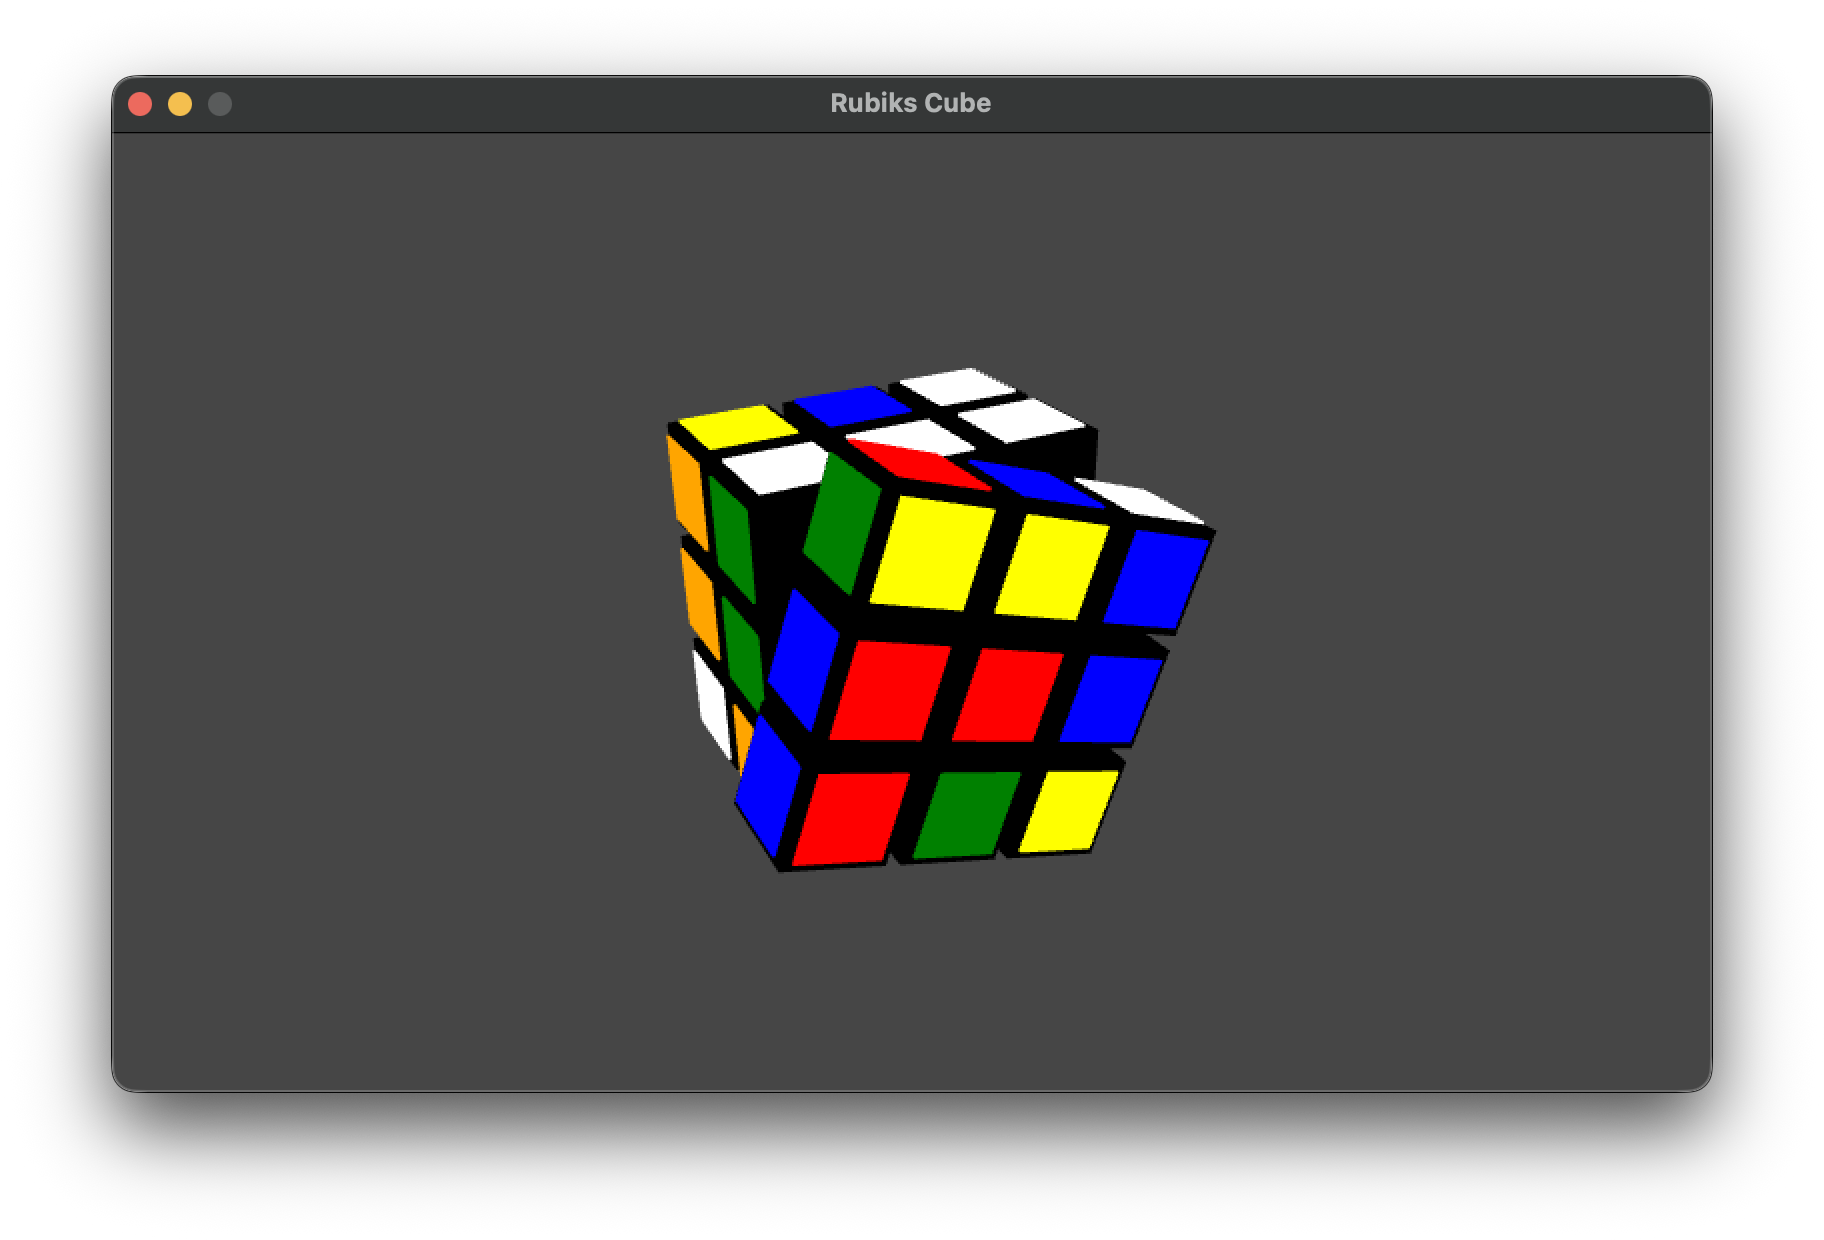
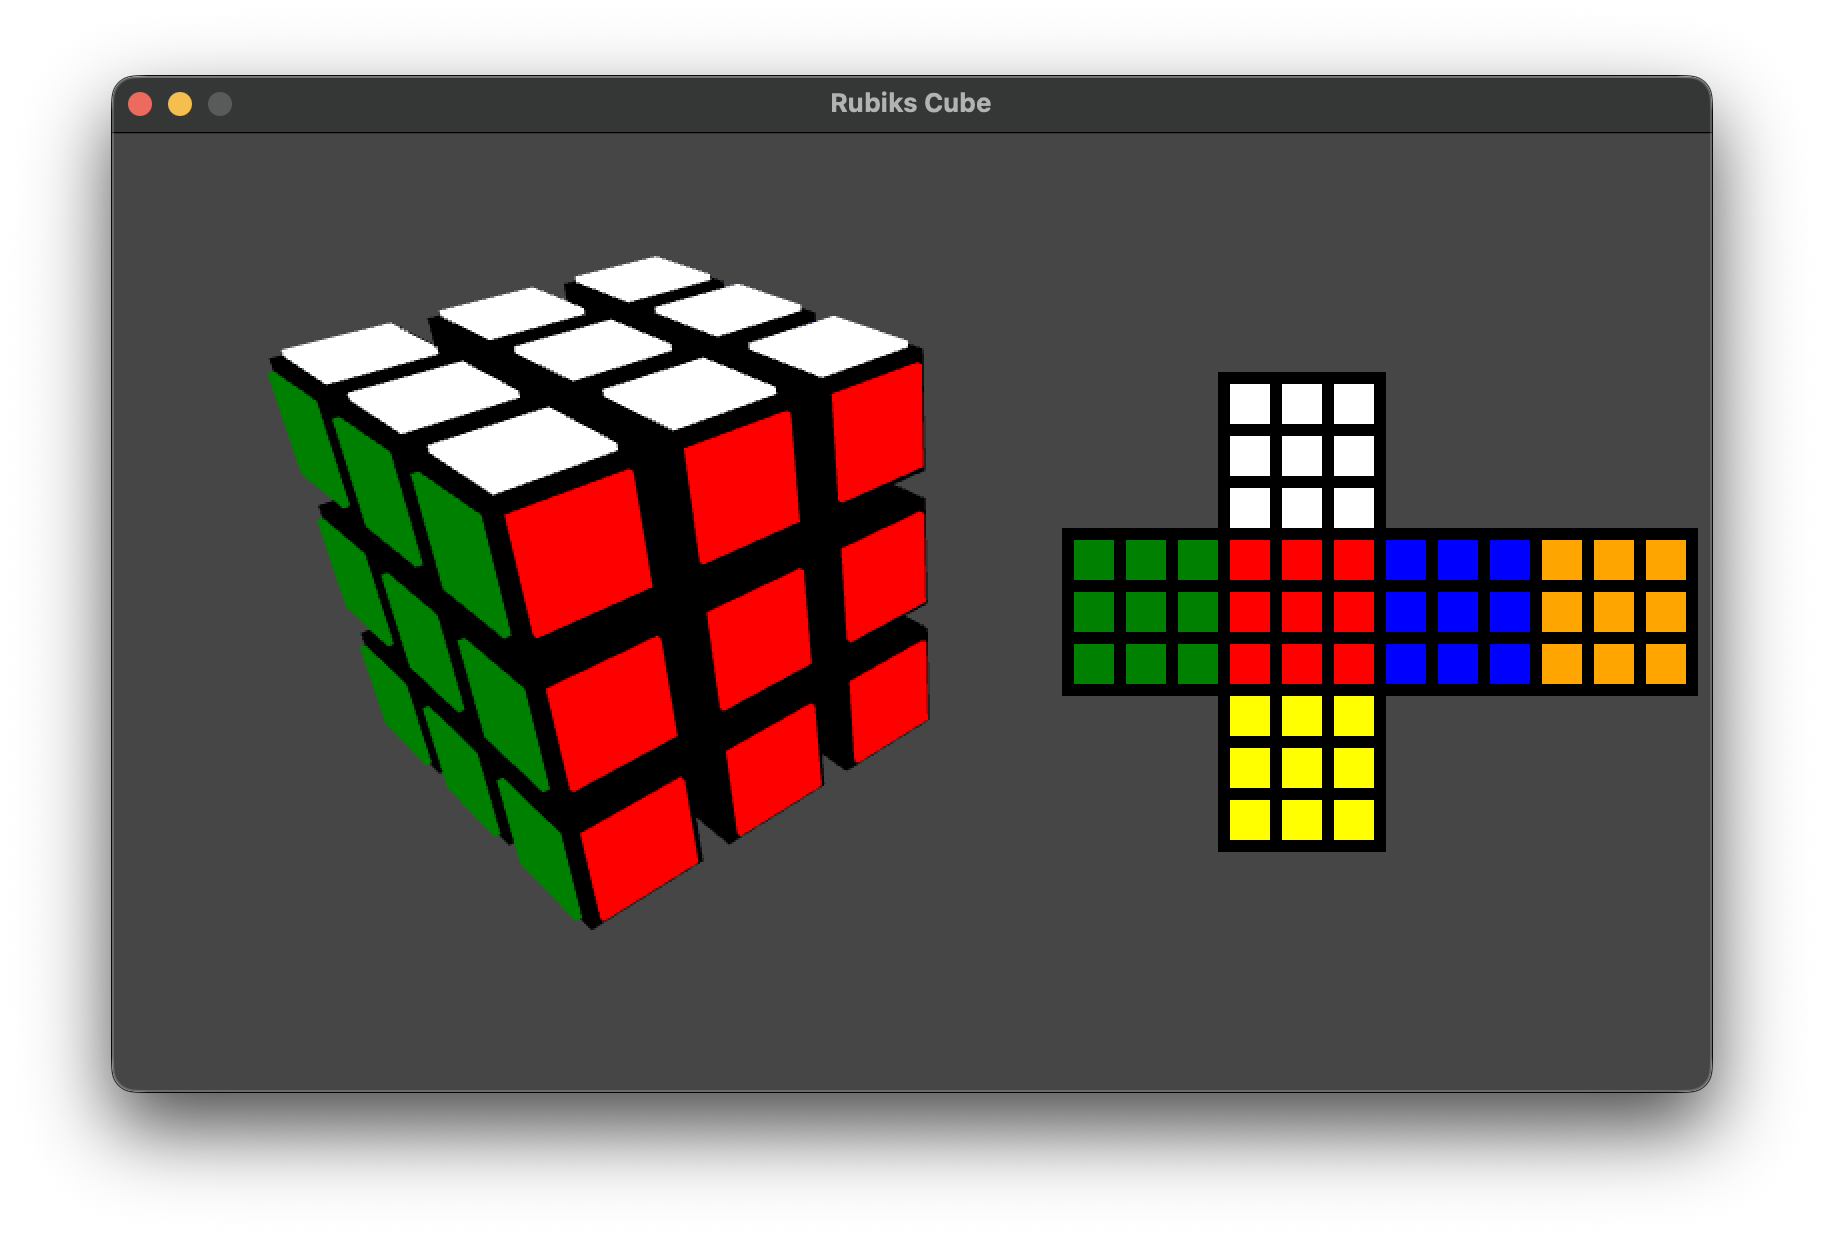
Work...

Changed region(s): [[0.125, 0.1839, 0.9375, 0.7661]]

diff --git a/README.md b/README.md
@@ -2,6 +2,8 @@
 
 ![Game Screenshot](screenshots/cube-1.png)
 
+![Game Screenshot](screenshots/cube-2.png)
+
 ## Controls
 
 - Use the arrow keys or drag empty space with the left mouse button to orbit the cube.